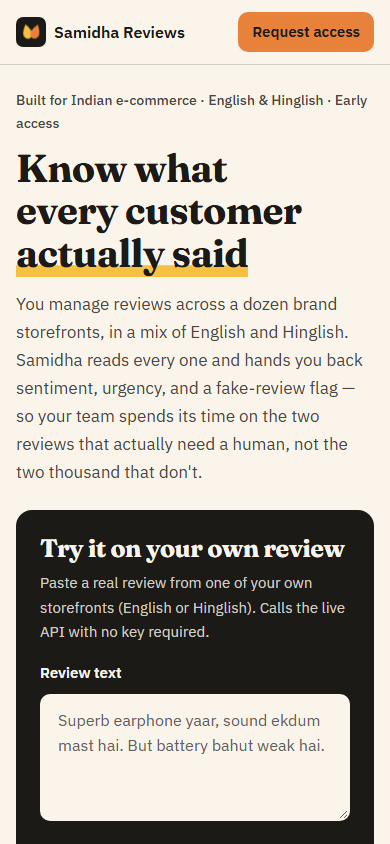
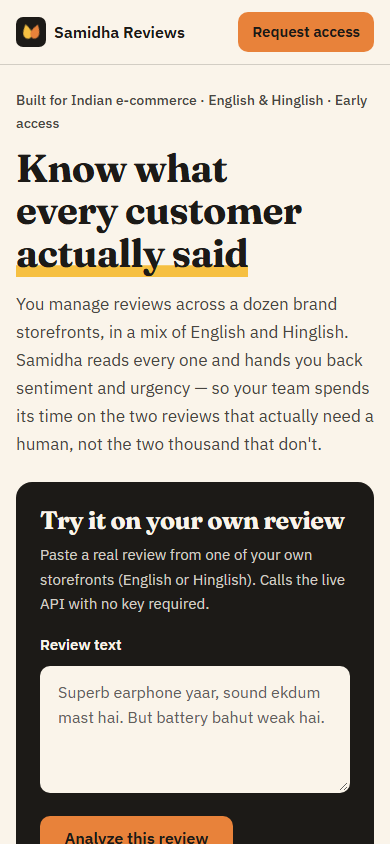
fix(site): remove the fake-review flag from every place the page promises it (D2)
GG decision D2: removal, not an 'experimental' label. Hero now reads 'hands you back
sentiment and urgency' (dropped 'and a fake-review flag'; the rest of the sentence is
unchanged). Also removed: the three meta/og/twitter descriptions' 'authenticity', the demo
widget idle text, the Authenticity demo tab and its disposition banner code, 'fake-review
detection' in the gallery intro, the authenticity flag in How it works step 2, 'or
inauthentic' in step 3, and the third problem card (fake-review campaigns), which framed a
problem the product no longer claims to solve. The problem grid is now two columns.
site/demo-data.json still carries the unused authenticity examples; not touched here.

Changed region(s): [[0.0308, 0.4313, 0.9846, 0.8934], [0.0923, 0.9242, 0.9231, 1.0]]

diff --git a/site/index.html b/site/index.html
@@ -6,7 +6,7 @@
   <title>Samidha Reviews — Know What Every Customer Actually Said</title>
   <link rel="icon" type="image/svg+xml" href="./favicon.svg" />
   <link rel="apple-touch-icon" href="./apple-touch-icon.png" />
-  <meta name="description" content="Turn a flood of customer reviews across every brand you manage into one queryable signal — sentiment, urgency, and authenticity, in English and Hinglish. Stateless by default. Early access pricing." />
+  <meta name="description" content="Turn a flood of customer reviews across every brand you manage into one queryable signal — sentiment and urgency, in English and Hinglish. Stateless by default. Early access pricing." />
   <!-- Absolute URLs required for OG/Twitter card scrapers (Session 12 P6e) -- relative paths
        don't resolve when a crawler fetches only the meta tag, not the page itself. Live URL
        today is the Cloudflare Pages default host; site/_redirects already 301s it to the apex
@@ -14,13 +14,13 @@
        that point, not before (an absolute URL to a domain that doesn't resolve yet is worse
        than one to the domain that's actually live). -->
   <meta property="og:title" content="Samidha Reviews — Know What Every Customer Actually Said" />
-  <meta property="og:description" content="Turn a flood of customer reviews across every brand you manage into one queryable signal — sentiment, urgency, and authenticity, in English and Hinglish." />
+  <meta property="og:description" content="Turn a flood of customer reviews across every brand you manage into one queryable signal — sentiment and urgency, in English and Hinglish." />
   <meta property="og:image" content="https://review-iq-demo.pages.dev/og-image.png" />
   <meta property="og:url" content="https://review-iq-demo.pages.dev/" />
   <meta property="og:type" content="website" />
   <meta name="twitter:card" content="summary_large_image" />
   <meta name="twitter:title" content="Samidha Reviews — Know What Every Customer Actually Said" />
-  <meta name="twitter:description" content="Turn a flood of customer reviews across every brand you manage into one queryable signal — sentiment, urgency, and authenticity, in English and Hinglish." />
+  <meta name="twitter:description" content="Turn a flood of customer reviews across every brand you manage into one queryable signal — sentiment and urgency, in English and Hinglish." />
   <meta name="twitter:image" content="https://review-iq-demo.pages.dev/og-image.png" />
   <!-- Session 15c C8: two typefaces, plain stylesheet link only (no scripts). Fraunces (display)
        and IBM Plex Sans (body + UI + code) are the pair named in design/tokens.json; the system
@@ -204,8 +204,8 @@
        ========================================================================== */
     .section { padding-block: clamp(3rem, 7vw, 5rem); border-bottom: 1px solid var(--line); }
     .section > .wrap > h2 + p, .price-head p { margin-top: var(--space-3); color: var(--ink-2); }
-    .cols-3 { display: grid; gap: var(--space-6); grid-template-columns: 1fr; margin-top: var(--space-6); }
-    @media (min-width: 48rem) { .cols-3 { grid-template-columns: repeat(3, 1fr); gap: var(--space-7); } }
+    .cols-2 { display: grid; gap: var(--space-6); grid-template-columns: 1fr; margin-top: var(--space-6); }
+    @media (min-width: 48rem) { .cols-2 { grid-template-columns: repeat(2, 1fr); gap: var(--space-7); } }
 
     /* Problem: three plain columns under hairlines -- no boxes, no shadows. */
     .problem-item { border-top: 2px solid var(--ink); padding-top: var(--space-4); }
@@ -217,7 +217,7 @@
     .icon .i-saffron { fill: var(--saffron); }
     .icon .i-ember { fill: var(--ember); }
 
-    /* How it works: a genuine sequence, so it is numbered. */
+    /* How it works: a real sequence, so it is numbered. */
     .steps { list-style: none; padding: 0; display: grid; gap: var(--space-6); grid-template-columns: 1fr; margin: var(--space-6) 0 0; }
     .step { display: grid; grid-template-columns: 2.75rem 1fr; gap: var(--space-4); align-items: start; }
     .step-num { width: 2.75rem; height: 2.75rem; border-radius: 50%; background: var(--saffron); color: var(--ink);
@@ -358,13 +358,6 @@
     .translation { margin-top: var(--space-3); font-size: 0.875rem; color: var(--ink-2); font-style: italic; max-width: none; }
     .insight { margin-bottom: var(--space-3); padding: var(--space-3) var(--space-4); background: var(--saffron-tint);
                color: var(--ink); border-left: 4px solid var(--ember); border-radius: 0 var(--r-sm) var(--r-sm) 0; font-size: 0.9375rem; max-width: none; }
-    .disposition { margin-top: var(--space-4); padding: var(--space-3) var(--space-4); border-radius: var(--r-sm); color: var(--ink);
-                   display: flex; flex-wrap: wrap; align-items: baseline; gap: var(--space-1) var(--space-4); }
-    .disposition strong { font: 700 var(--step-2)/1.2 var(--font-display); }
-    .disposition span { font-size: var(--step--1); }
-    .disp-clear { background: var(--cream); }
-    .disp-flagged_for_review { background: var(--saffron); }
-    .disp-priority_review { background: var(--ember); }
     .csv-table { font-size: 0.8125rem; }
     .csv-table td, .csv-table th { padding: var(--space-2) var(--space-3); }
     .unavailable { margin-top: var(--space-5); padding: var(--space-5); background: var(--cream-2); border: 1px solid var(--line);
@@ -441,7 +434,7 @@
         <h1>Know what every customer <span class="marker">actually said</span></h1>
         <p class="hero-lede">
           You manage reviews across a dozen brand storefronts, in a mix of English and Hinglish.
-          Samidha reads every one and hands you back sentiment, urgency, and a fake-review flag
+          Samidha reads every one and hands you back sentiment and urgency
           &mdash; so your team spends its time on the two reviews that actually need a human, not
           the two thousand that don't.
         </p>
@@ -477,7 +470,7 @@
         </div>
 
         <!-- Empty (idle) state -->
-        <p id="live-idle" class="slab-idle">The response appears here as JSON: sentiment, urgency, topics and the authenticity flag.</p>
+        <p id="live-idle" class="slab-idle">The response appears here as JSON: sentiment, urgency, topics and more.</p>
 
         <div id="live-result-wrap" class="slab-result" hidden>
           <p class="slab-result-label">Response (ReviewExtraction)</p>
@@ -500,7 +493,7 @@
     <section id="problem" class="section">
       <div class="wrap">
         <h2>Managing reviews for one brand is manageable. For twelve, it isn't.</h2>
-        <div class="cols-3">
+        <div class="cols-2">
           <div class="problem-item">
             <!-- Two speech bubbles: a review in more than one language. -->
             <svg class="icon" viewBox="0 0 24 24" aria-hidden="true" focusable="false">
@@ -528,18 +521,6 @@
               already passed.
             </p>
           </div>
-          <div class="problem-item">
-            <!-- A review star struck through: a rating that isn't real. -->
-            <svg class="icon" viewBox="0 0 24 24" aria-hidden="true" focusable="false">
-              <path class="i-saffron" d="M12 3.5l2.6 5.3 5.9.85-4.25 4.15 1 5.85L12 16.9l-5.25 2.75 1-5.85L3.5 9.65l5.9-.85z"/>
-              <path d="M4 20.5L20 3.5"/>
-            </svg>
-            <h3>Some of it isn't even real</h3>
-            <p>
-              Coordinated fake-review campaigns are a live problem for Indian D2C brands.
-              Spotting one manually across a dozen storefronts, in two languages, doesn't scale.
-            </p>
-          </div>
         </div>
       </div>
     </section>
@@ -551,15 +532,14 @@
       <div class="wrap">
         <h2>See it work, on real reviews</h2>
         <p>
-          Every example below is a real, unmodified API response &mdash; extraction, fake-review
-          detection, cross-review trends, and bulk CSV upload. No network needed, works with JS
+          Every example below is a real, unmodified API response &mdash; extraction,
+          cross-review trends, and bulk CSV upload. No network needed, works with JS
           disabled.
         </p>
 
         <!-- Category tabs -->
         <div id="cat-tabs" class="tabs" role="group" aria-label="Example category">
           <button type="button" data-cat="extraction" class="cat-tab chip" aria-pressed="true" onclick="switchCat('extraction')">Extraction</button>
-          <button type="button" data-cat="authenticity" class="cat-tab chip" aria-pressed="false" onclick="switchCat('authenticity')">Authenticity</button>
           <button type="button" data-cat="insights" class="cat-tab chip" aria-pressed="false" onclick="switchCat('insights')">Insights</button>
           <button type="button" data-cat="csv" class="cat-tab chip" aria-pressed="false" onclick="switchCat('csv')">CSV Ingest</button>
         </div>
@@ -604,8 +584,8 @@
             <div>
               <h3>We extract the signal</h3>
               <p>
-                Sentiment, urgency, topics, pros/cons, competitor mentions, and an authenticity
-                flag &mdash; structured JSON back in under a second per review.
+                Sentiment, urgency, topics, pros/cons, and competitor
+                mentions &mdash; structured JSON back in under a second per review.
               </p>
             </div>
           </li>
@@ -615,7 +595,7 @@
               <h3>You see what matters</h3>
               <p>
                 Query the dashboard, pull trends across every brand you manage, or wire an
-                alert for anything flagged urgent or inauthentic.
+                alert for anything flagged urgent.
               </p>
             </div>
           </li>
@@ -1036,13 +1016,6 @@
     let activeCat = "extraction"; // current category tab
     let activeEx = {};            // activeCat -> activeExId
 
-    // Disposition banner labels (fill colour comes from the .disp-* classes)
-    const DISPOSITION_LABEL = {
-      clear:              "Clear",
-      flagged_for_review: "Flagged for review",
-      priority_review:    "Priority review",
-    };
-
     // ---------------------------------------------------------------------------
     // Render helpers
     // ---------------------------------------------------------------------------
@@ -1114,16 +1087,6 @@
       // JSON output
       html += `<pre class="code">${highlightJson(ex.output)}</pre>`;
 
-      // Authenticity disposition banner (below JSON)
-      if (ex.category === "authenticity" && ex.output.disposition) {
-        const key = DISPOSITION_LABEL[ex.output.disposition] ? ex.output.disposition : "clear";
-        html += `
-          <div class="disposition disp-${key}">
-            <strong>${DISPOSITION_LABEL[key]}</strong>
-            <span>IS 19000:2022 administrator signal</span>
-          </div>`;
-      }
-
       return html;
     }
 
@@ -1190,7 +1153,7 @@
 
     function initGallery(data) {
       galleryData = data;
-      const categories = ["extraction", "authenticity", "insights", "csv"];
+      const categories = ["extraction", "insights", "csv"];
       const panelsEl = document.getElementById("gallery-panels");
       panelsEl.innerHTML = categories
         .map(function(cat) { return renderCategory(cat, data.examples); })
